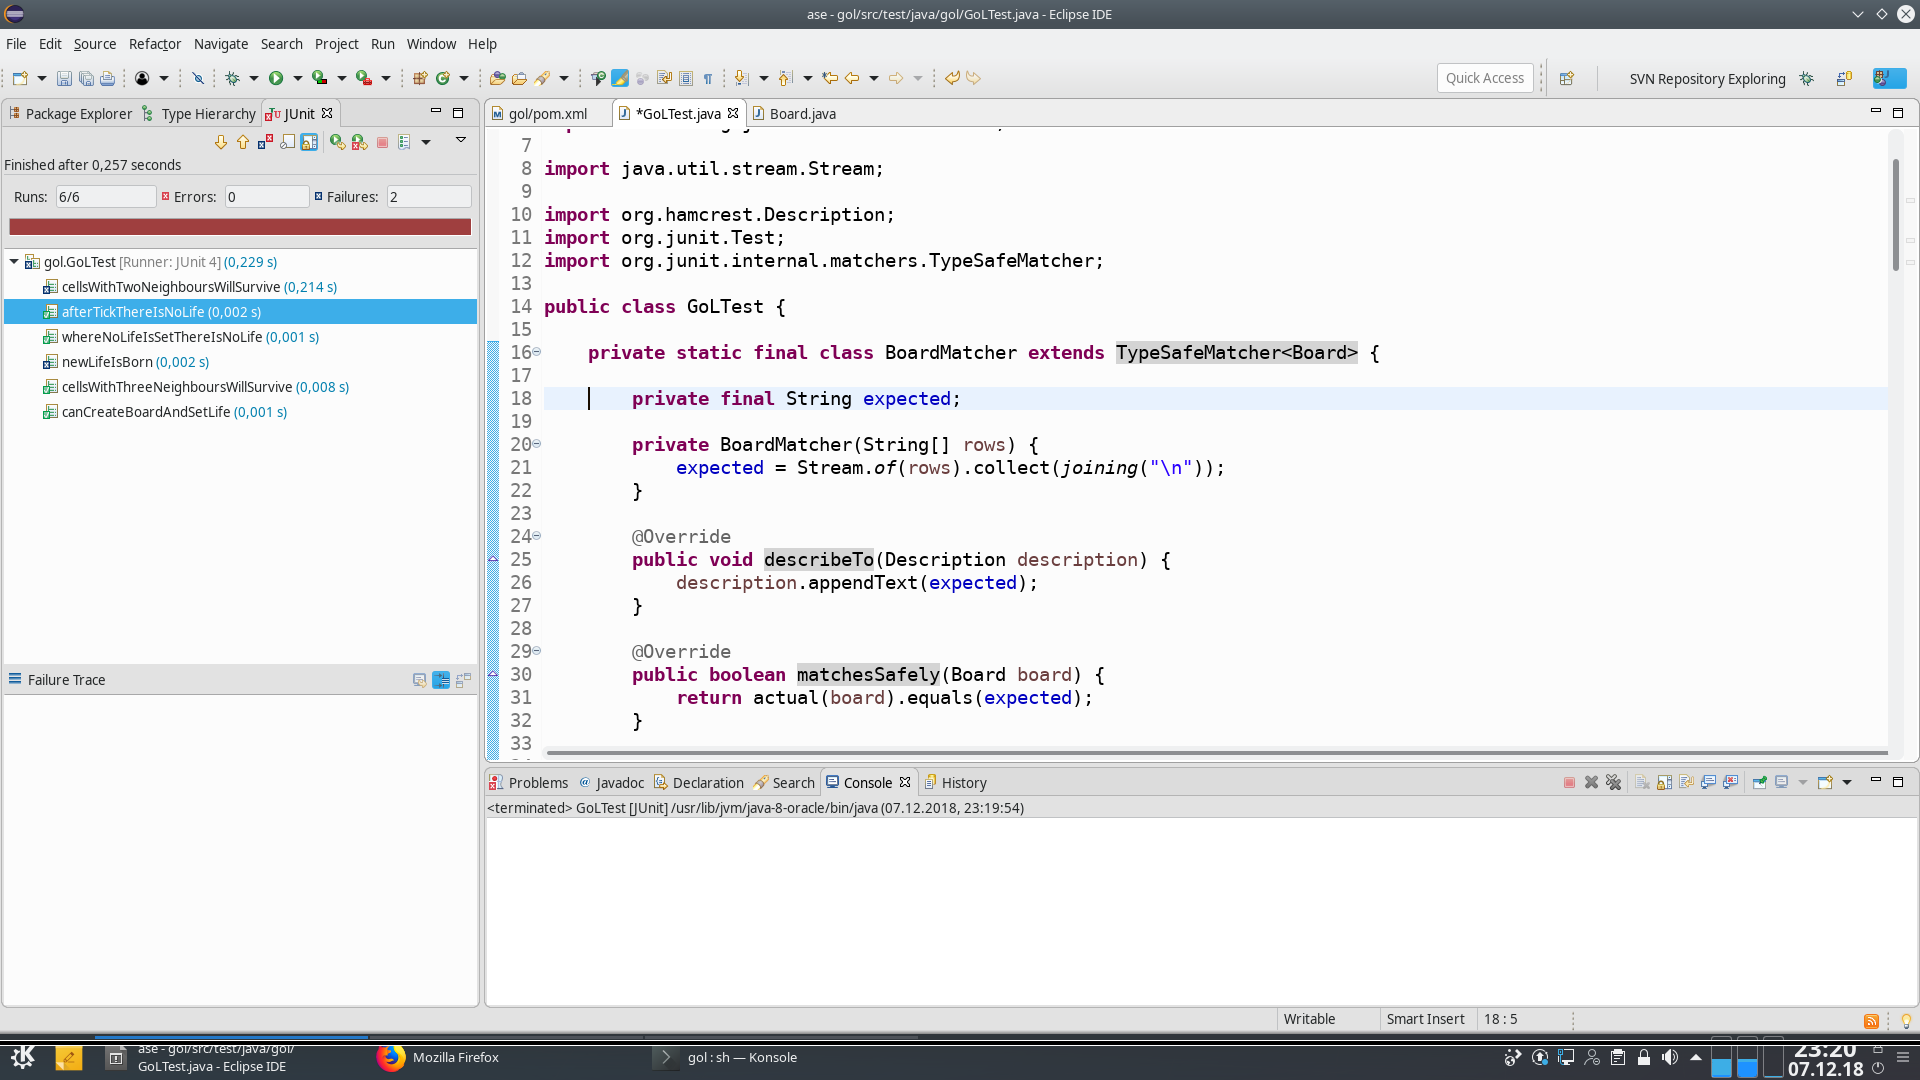
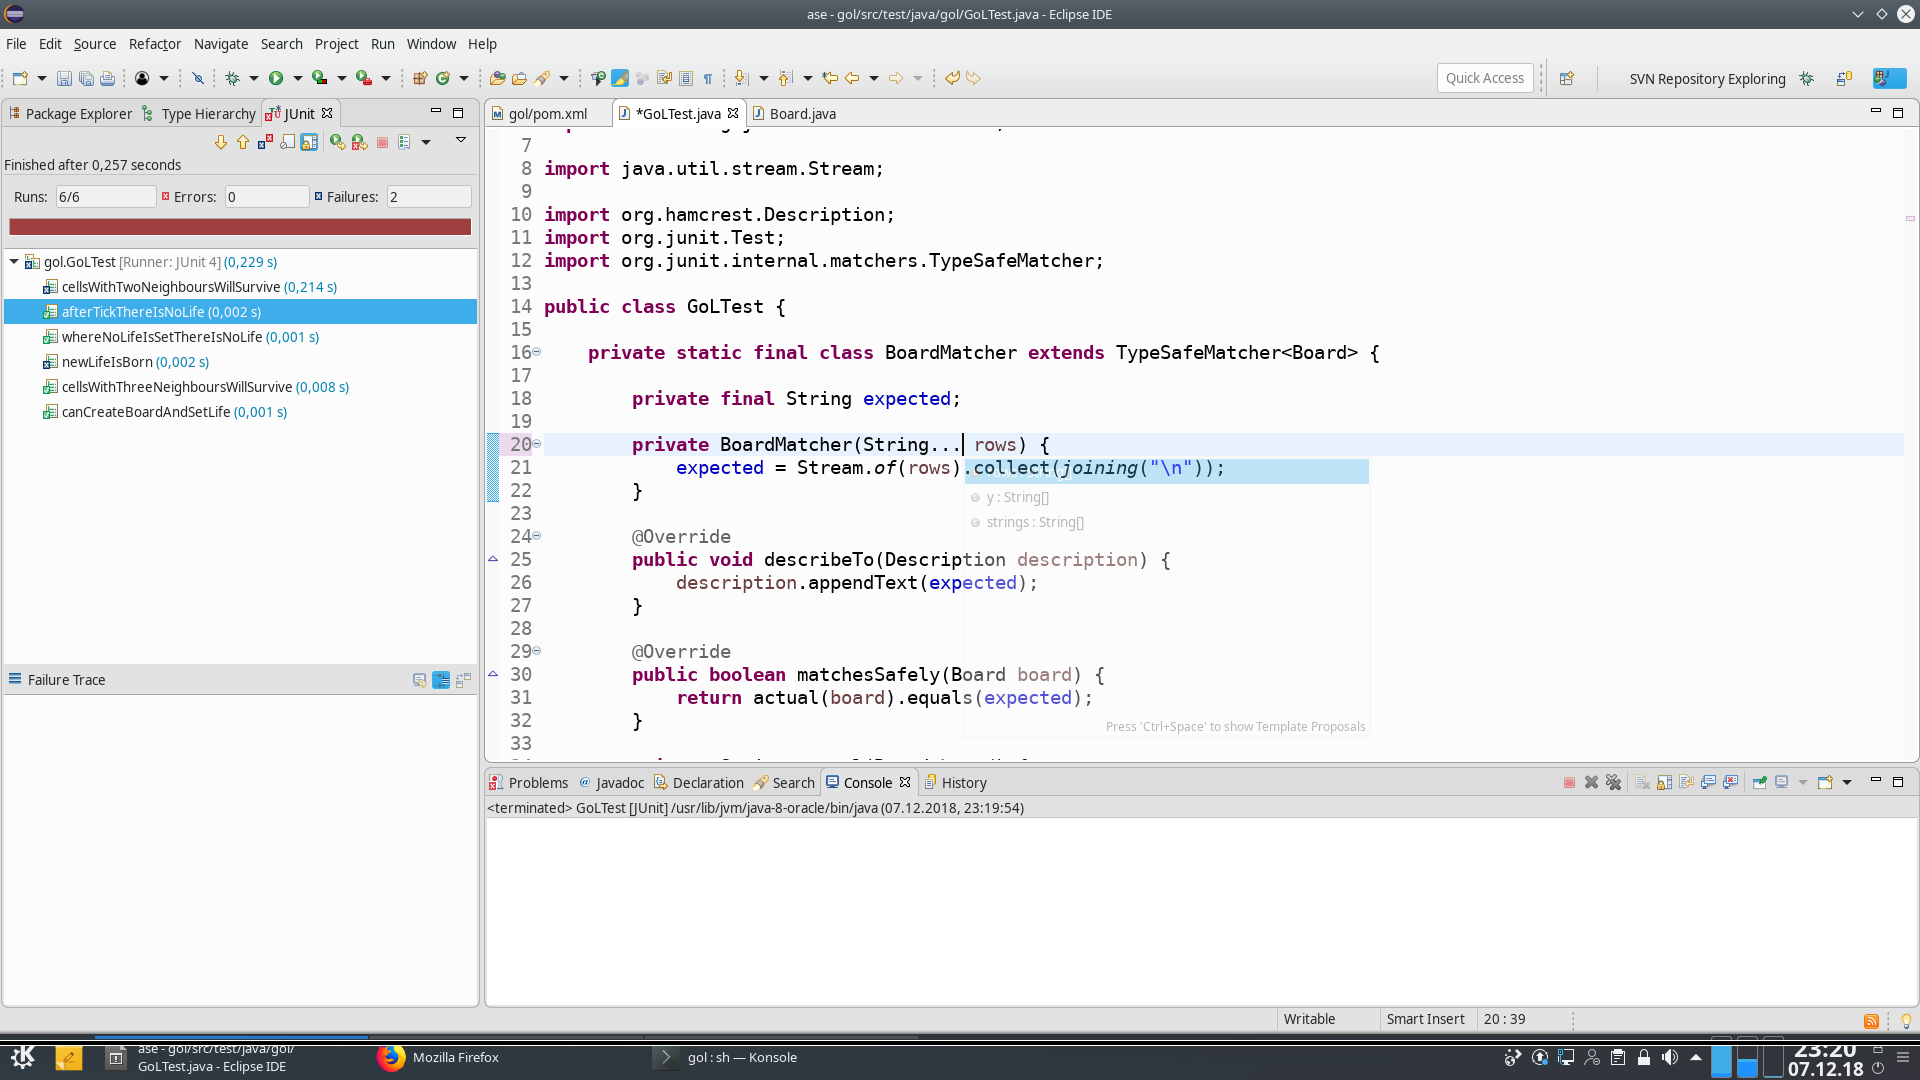
autocommit on change

diff --git a/src/test/java/gol/GoLTest.java b/src/test/java/gol/GoLTest.java
@@ -17,7 +17,7 @@ public class GoLTest {
 
 		private final String expected;
 
-		private BoardMatcher(String[] rows) {
+		private BoardMatcher(String... rows) {
 			expected = Stream.of(rows).collect(joining("\n"));
 		}
 
